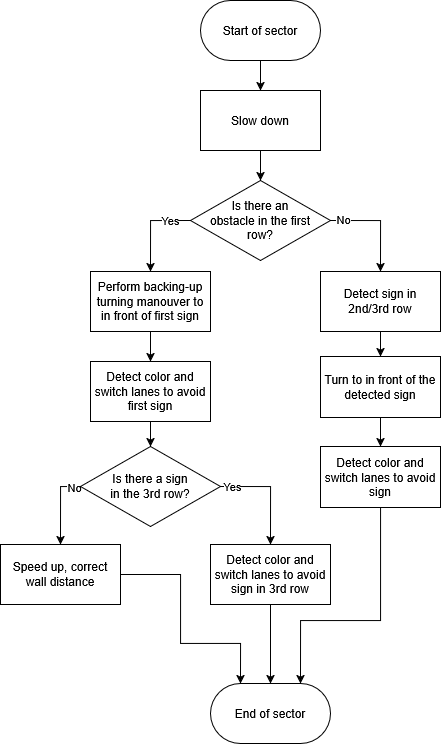
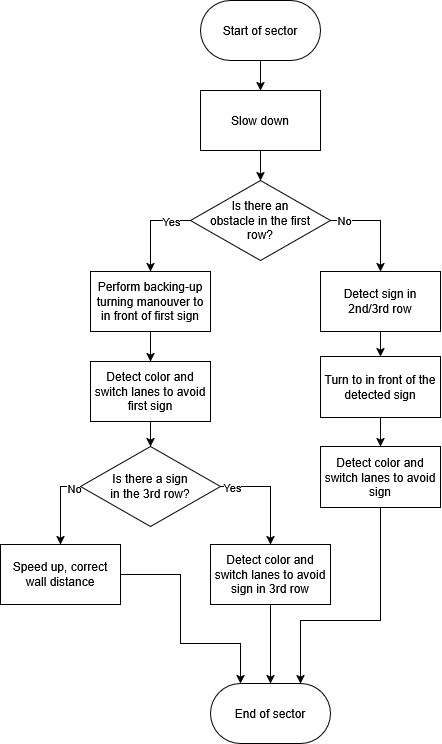
added missing journal entries
also updated flowcharts

diff --git a/Engineering Journal.md b/Engineering Journal.md
@@ -22,4 +22,14 @@ We were invited to the National/Central European demo competition RoboTech, wher
 ## April
 `04.17.:` We discussed possible improvements of the robot, such as the creation of a new PCB and it's new features. We also decided to implement a new obstacle challenge strategy to reduce our time by a significant amount.
 
-`04.28.:` We started work on creating the improved strategy. It will make the run much more complicated than before, and since simplicity and straight-forwardness is very important to us we had to make sure it remained clear and understandable. We made a [work-in-progress flowchart](strategy_WIP.svg), and started implementing parts of it. Whether we finish it for the nationals or not is not certain.
+`04.28.:` We started work on creating the improved strategy. It will make the run much more complicated than before, and since simplicity and straight-forwardness is very important to us we had to make sure it remained clear and understandable. We made a work-in-progress flowchart, and started implementing parts of it. Whether we finish it for the nationals or not is not certain.  
+![WIP strategy](strategy_WIP.png)
+
+
+## May
+We started implementing the new strategy in parts, and quickly realized this is not the way forward to the nationals. The number of cases grew exponentially and we didn't have enough time before the nationals to finish properly implementing it. We instead made a compromise between the new strategy and the old one that enables us to keep the simplicity of the old strategy with significant timesaves. After deciding on this strategy we quickly started implementing and testing it.
+
+## June
+`06.10.:` We finished implementing the strategy and tested it to our best ability. We are really happy with the results. We also had to start planning the documentation and preparing for the surprise rule.
+
+`06.15.:` The surprise rule was announced. We prioritized solving it, pausing documentation work meanwhile. We managed to solve it fairly easily, but we also have to test the full run with the surprise rule thoroughly.